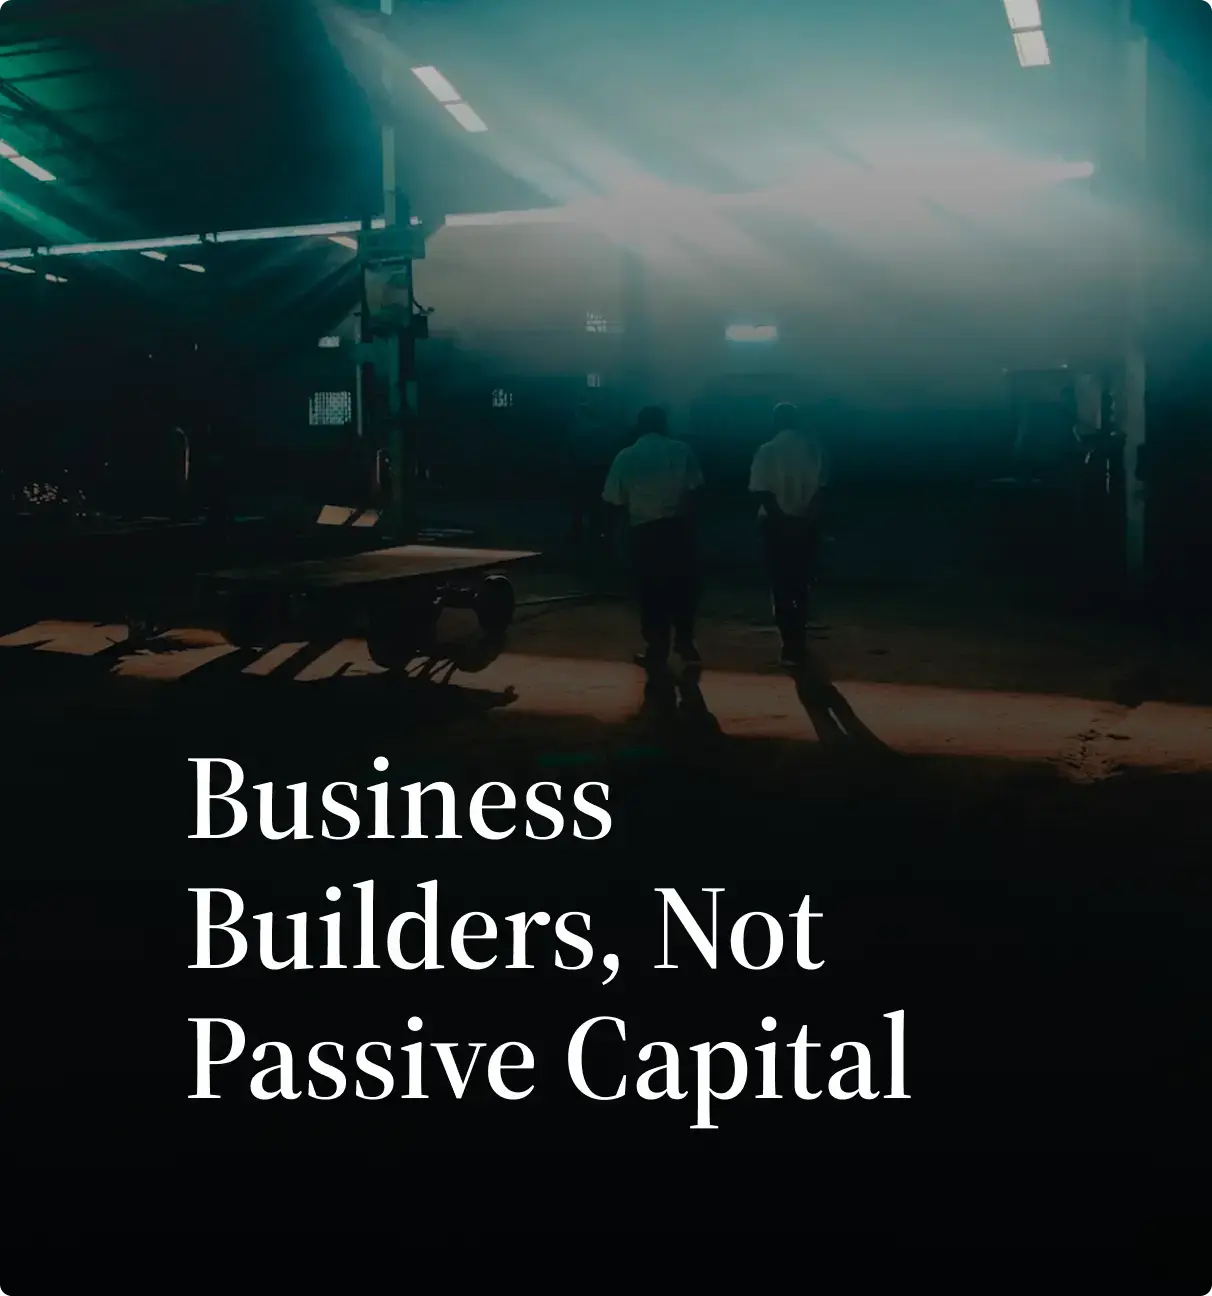
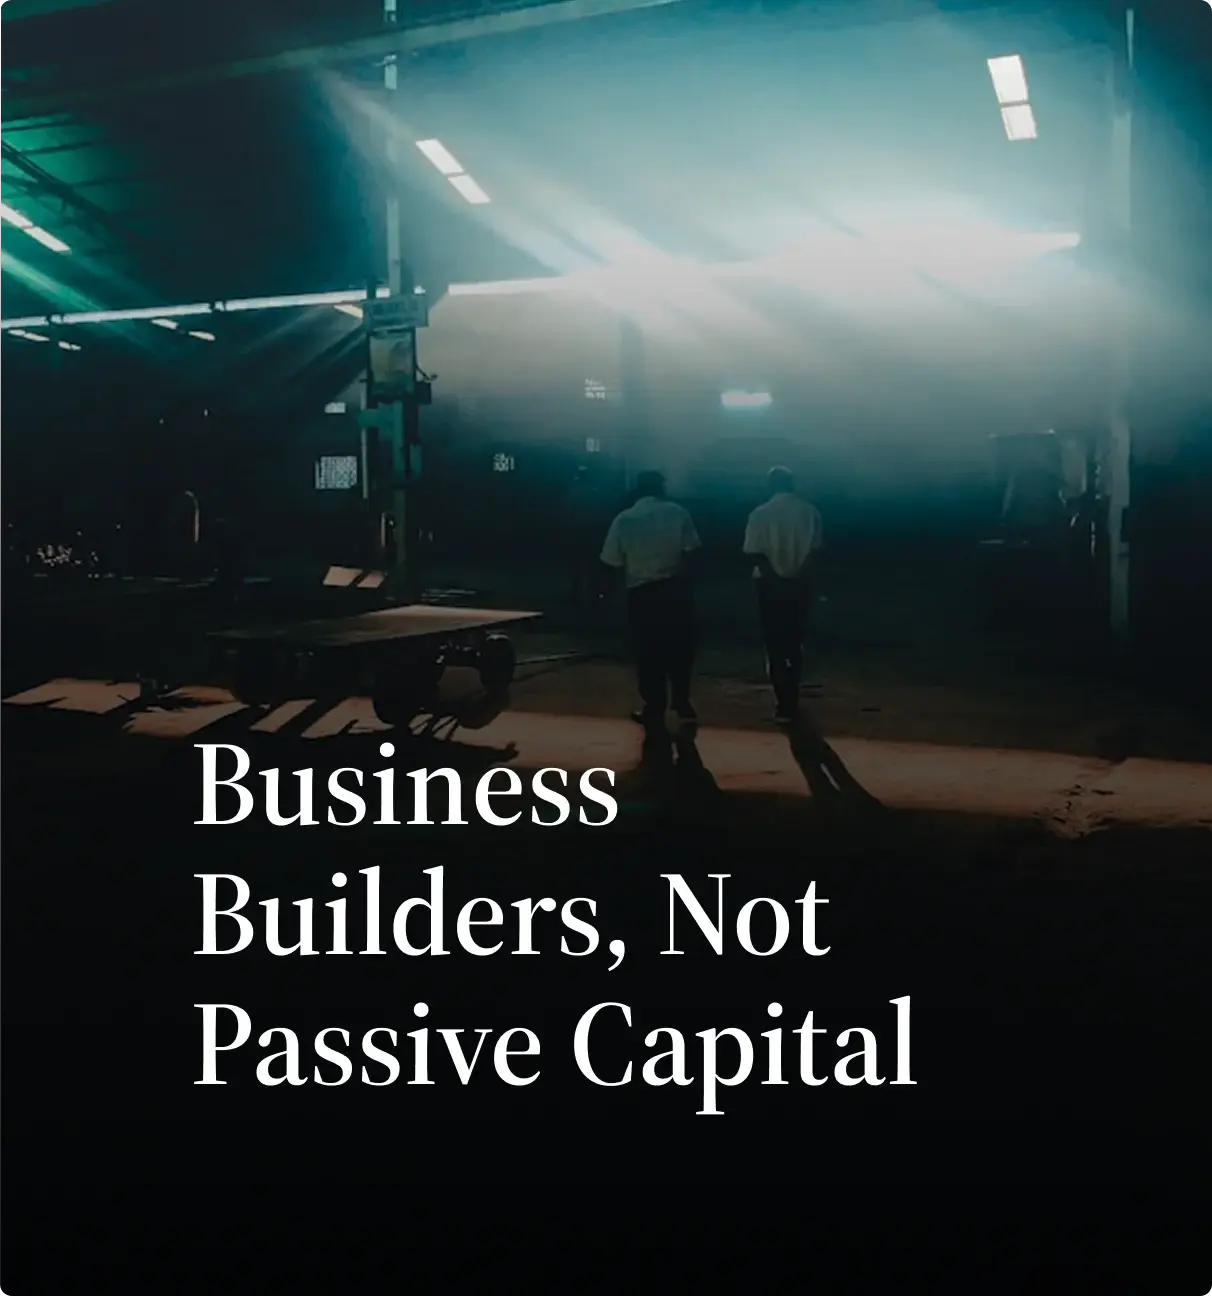
refactor: Update image formats in differentiators section from SVG to WebP for improved performance

diff --git a/app/_components/home/differentiators-section.tsx b/app/_components/home/differentiators-section.tsx
@@ -11,12 +11,12 @@ const differentiators = [
   },
   {
     title: "Institutional, Yet Entrepreneurial",
-    image: "/images/svg/differentiator-image2.svg",
+    image: "/images/differentiator-image2.webp",
     copy: "We combine big-firm discipline with start-up energy. Institutional rigour and governance, and entrepreneurial speed and flexibility.",
   },
   {
     title: "Climate Positive DNA",
-    image: "/images/svg/differentiator-image3.svg",
+    image: "/images/differentiator-image3.webp",
     copy: "We build businesses that outperform financially, with the firm conviction that good businesses are also responsible businesses.",
   },
 ];
